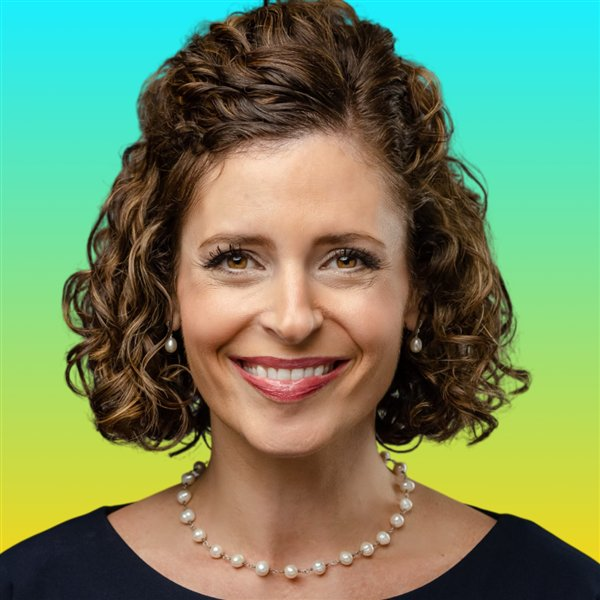
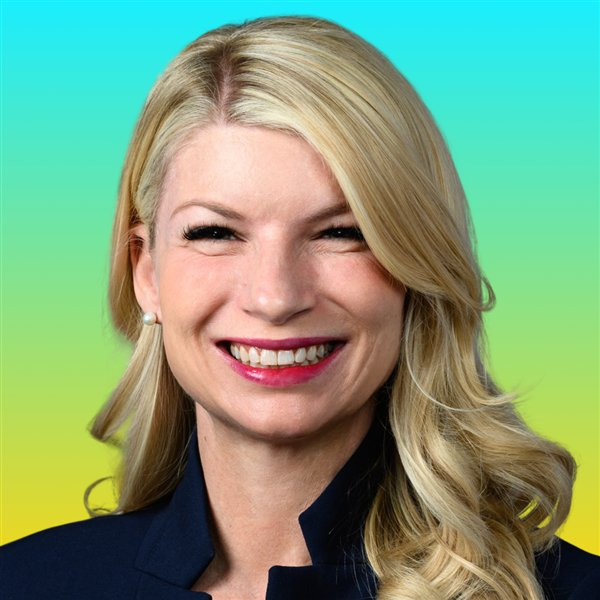
Sydney Kostas Pastry II's headshot; fix the two after it
The photo that didn't arrive first time was Sydney Kostas Pastry II's, so the
two photos after it move down one: the one shown as Sydney is Christina
McElroy, and the one shown as Christina is Ophélie Merrine.

diff --git a/index.html b/index.html
@@ -1062,8 +1062,9 @@ const HEADSHOTS={
   "Sandy Barber":{src:"img/headshots/sandy-barber.jpg",crop:[25,5,550]},
   "Tomomi Kawaguchi":{src:"img/headshots/tomomi-kawaguchi.jpg",crop:[25,5,550]},
   "Nicholas Jakobssen":{src:"img/headshots/nicholas-jakobssen.jpg",crop:[25,5,550]},
-  "Sydney Kostas Pastry II":{src:"img/headshots/sydney-kostas-pastry-ii.jpg",crop:[25,5,550]},
+  "Sydney Kostas Pastry II":{src:"img/headshots/sydney-kostas-pastry-ii.webp",crop:[190,40,1040]},
   "Christina McElroy":{src:"img/headshots/christina-mcelroy.jpg",crop:[25,5,550]},
+  "Ophélie Merrine":{src:"img/headshots/ophelie-merrine.jpg",crop:[25,5,550]},
   "Meredith Astor":{src:"img/headshots/meredith-astor.jpg",crop:[25,5,550]},
   "Shirley Ballas":{src:"img/headshots/shirley-ballas.jpg",crop:[25,5,550]},
   "Sophie Jean-Larsson":{src:"img/headshots/sophie-jean-larsson.jpg",crop:[25,5,550]},
